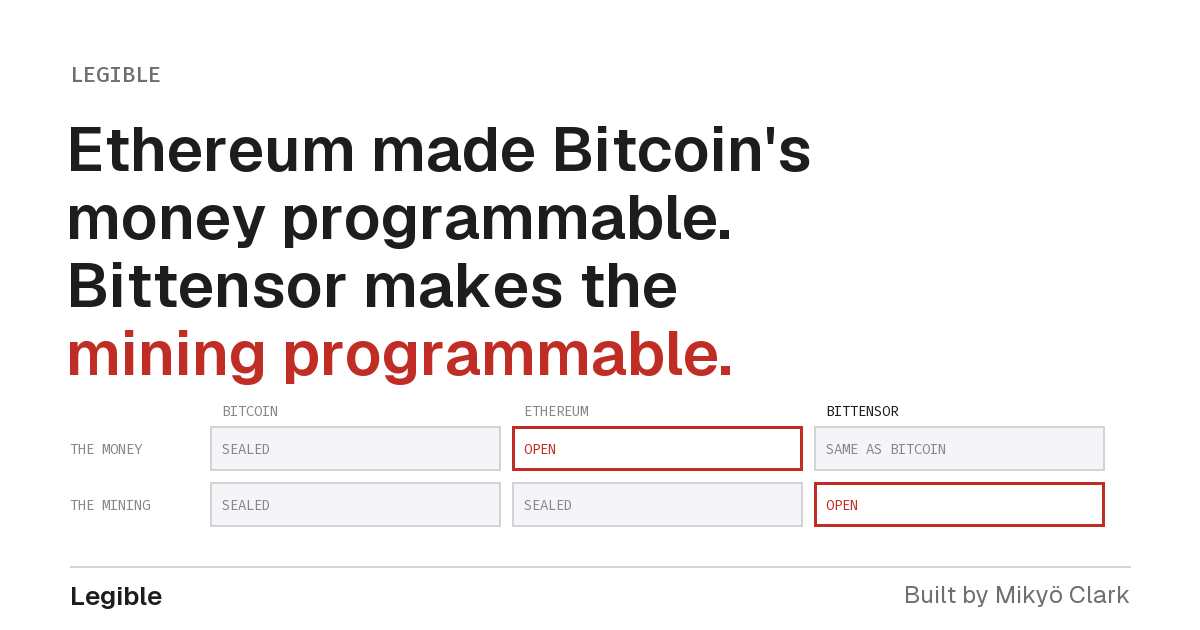
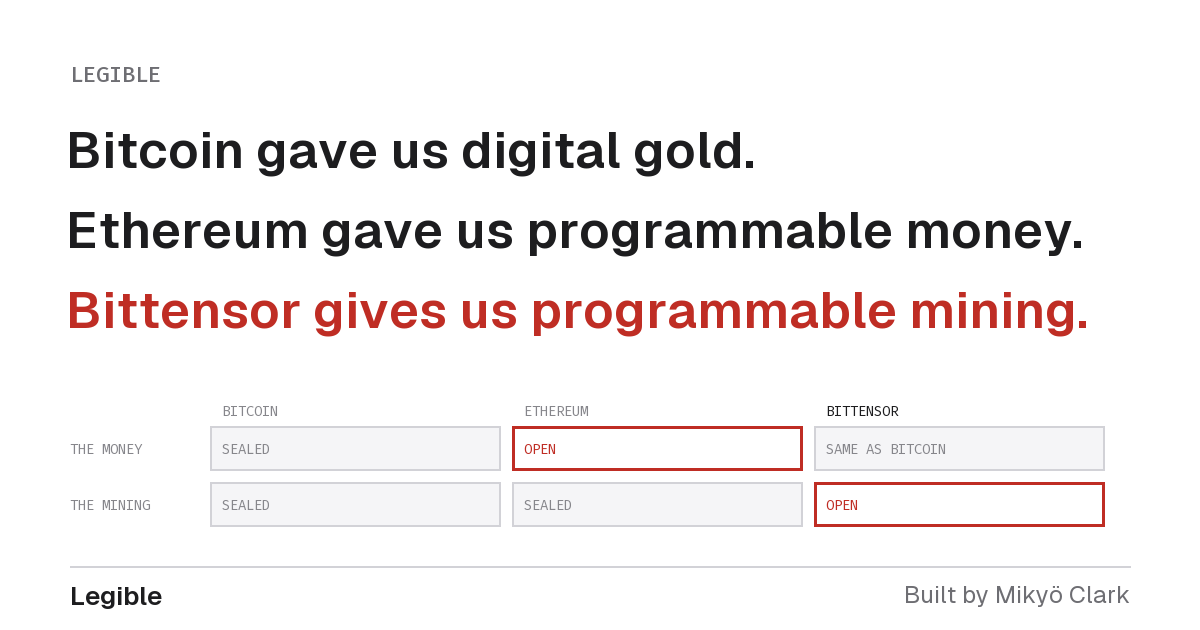
Home: three-line headline, gold, money, mining; site card matches

Changed region(s): [[0.0308, 0.181, 0.8942, 0.6333]]

diff --git a/index.html b/index.html
@@ -25,7 +25,9 @@
 .arg{padding-top:64px;padding-bottom:24px;overflow-x:hidden}
 .hero-b{text-align:center;max-width:880px;margin:0 auto}
 .hero-b .kicker{margin:0 0 18px}
-.hero-b h1{max-width:none;margin:0 auto;font-size:clamp(40px,5.6vw,60px);font-weight:600;letter-spacing:-.035em;line-height:1.02}
+.hero-b h1{max-width:none;margin:0 auto;font-size:clamp(34px,4.8vw,56px);font-weight:600;letter-spacing:-.035em;line-height:1.08;text-wrap:balance}
+.hero-b h1 br{display:none}
+@media (min-width:700px){.hero-b h1 br{display:inline}}
 .hero-b .lede{margin:22px auto 0;max-width:46ch;color:var(--soft);font-size:21px;line-height:1.4;letter-spacing:-.01em}
 .arg .demo{margin-top:22px;display:flex;justify-content:center;gap:26px;flex-wrap:wrap;font-size:17px}
 .arg .demo a{color:var(--link)}
@@ -189,7 +191,7 @@
 <header class="wrap arg" id="top">
   <div class="hero-b">
     <p class="kicker">Programmable mining</p>
-    <h1>Ethereum made Bitcoin's <em>money</em> programmable. Bittensor makes the <em>mining</em> programmable.</h1>
+    <h1>Bitcoin gave us digital <em>gold</em>.<br>Ethereum gave us programmable <em>money</em>.<br>Bittensor gives us programmable <em>mining</em>.</h1>
     <p class="lede">One argument about what Bittensor is, and two instruments that record whether the network says so.</p>
     <div class="demo">
       <a href="#puzzle">Write the puzzle</a>

diff --git a/scripts/render_subnets.py b/scripts/render_subnets.py
@@ -331,11 +331,10 @@ def render_default_og(data, out_path):
         img, d, F, P = og_canvas("LEGIBLE")
     except ImportError:
         return False
-    big = _font([DISPLAY + ":600"], 62)
-    d.text((66, 108), "Ethereum made Bitcoin's", font=big, fill=P["ink"])
-    d.text((66, 176), "money programmable.", font=big, fill=P["ink"])
-    d.text((66, 244), "Bittensor makes the", font=big, fill=P["ink"])
-    d.text((66, 312), "mining programmable.", font=big, fill=P["teal"])
+    big = _font([DISPLAY + ":600"], 51)
+    d.text((66, 116), "Bitcoin gave us digital gold.", font=big, fill=P["ink"])
+    d.text((66, 196), "Ethereum gave us programmable money.", font=big, fill=P["ink"])
+    d.text((66, 276), "Bittensor gives us programmable mining.", font=big, fill=P["teal"])
     # the grid, across the lower band: three networks, two rows, sealed or open
     x0, y0, cw, rh, gap = 210, 426, 290, 44, 12
     heads = ["Bitcoin", "Ethereum", "Bittensor"]
